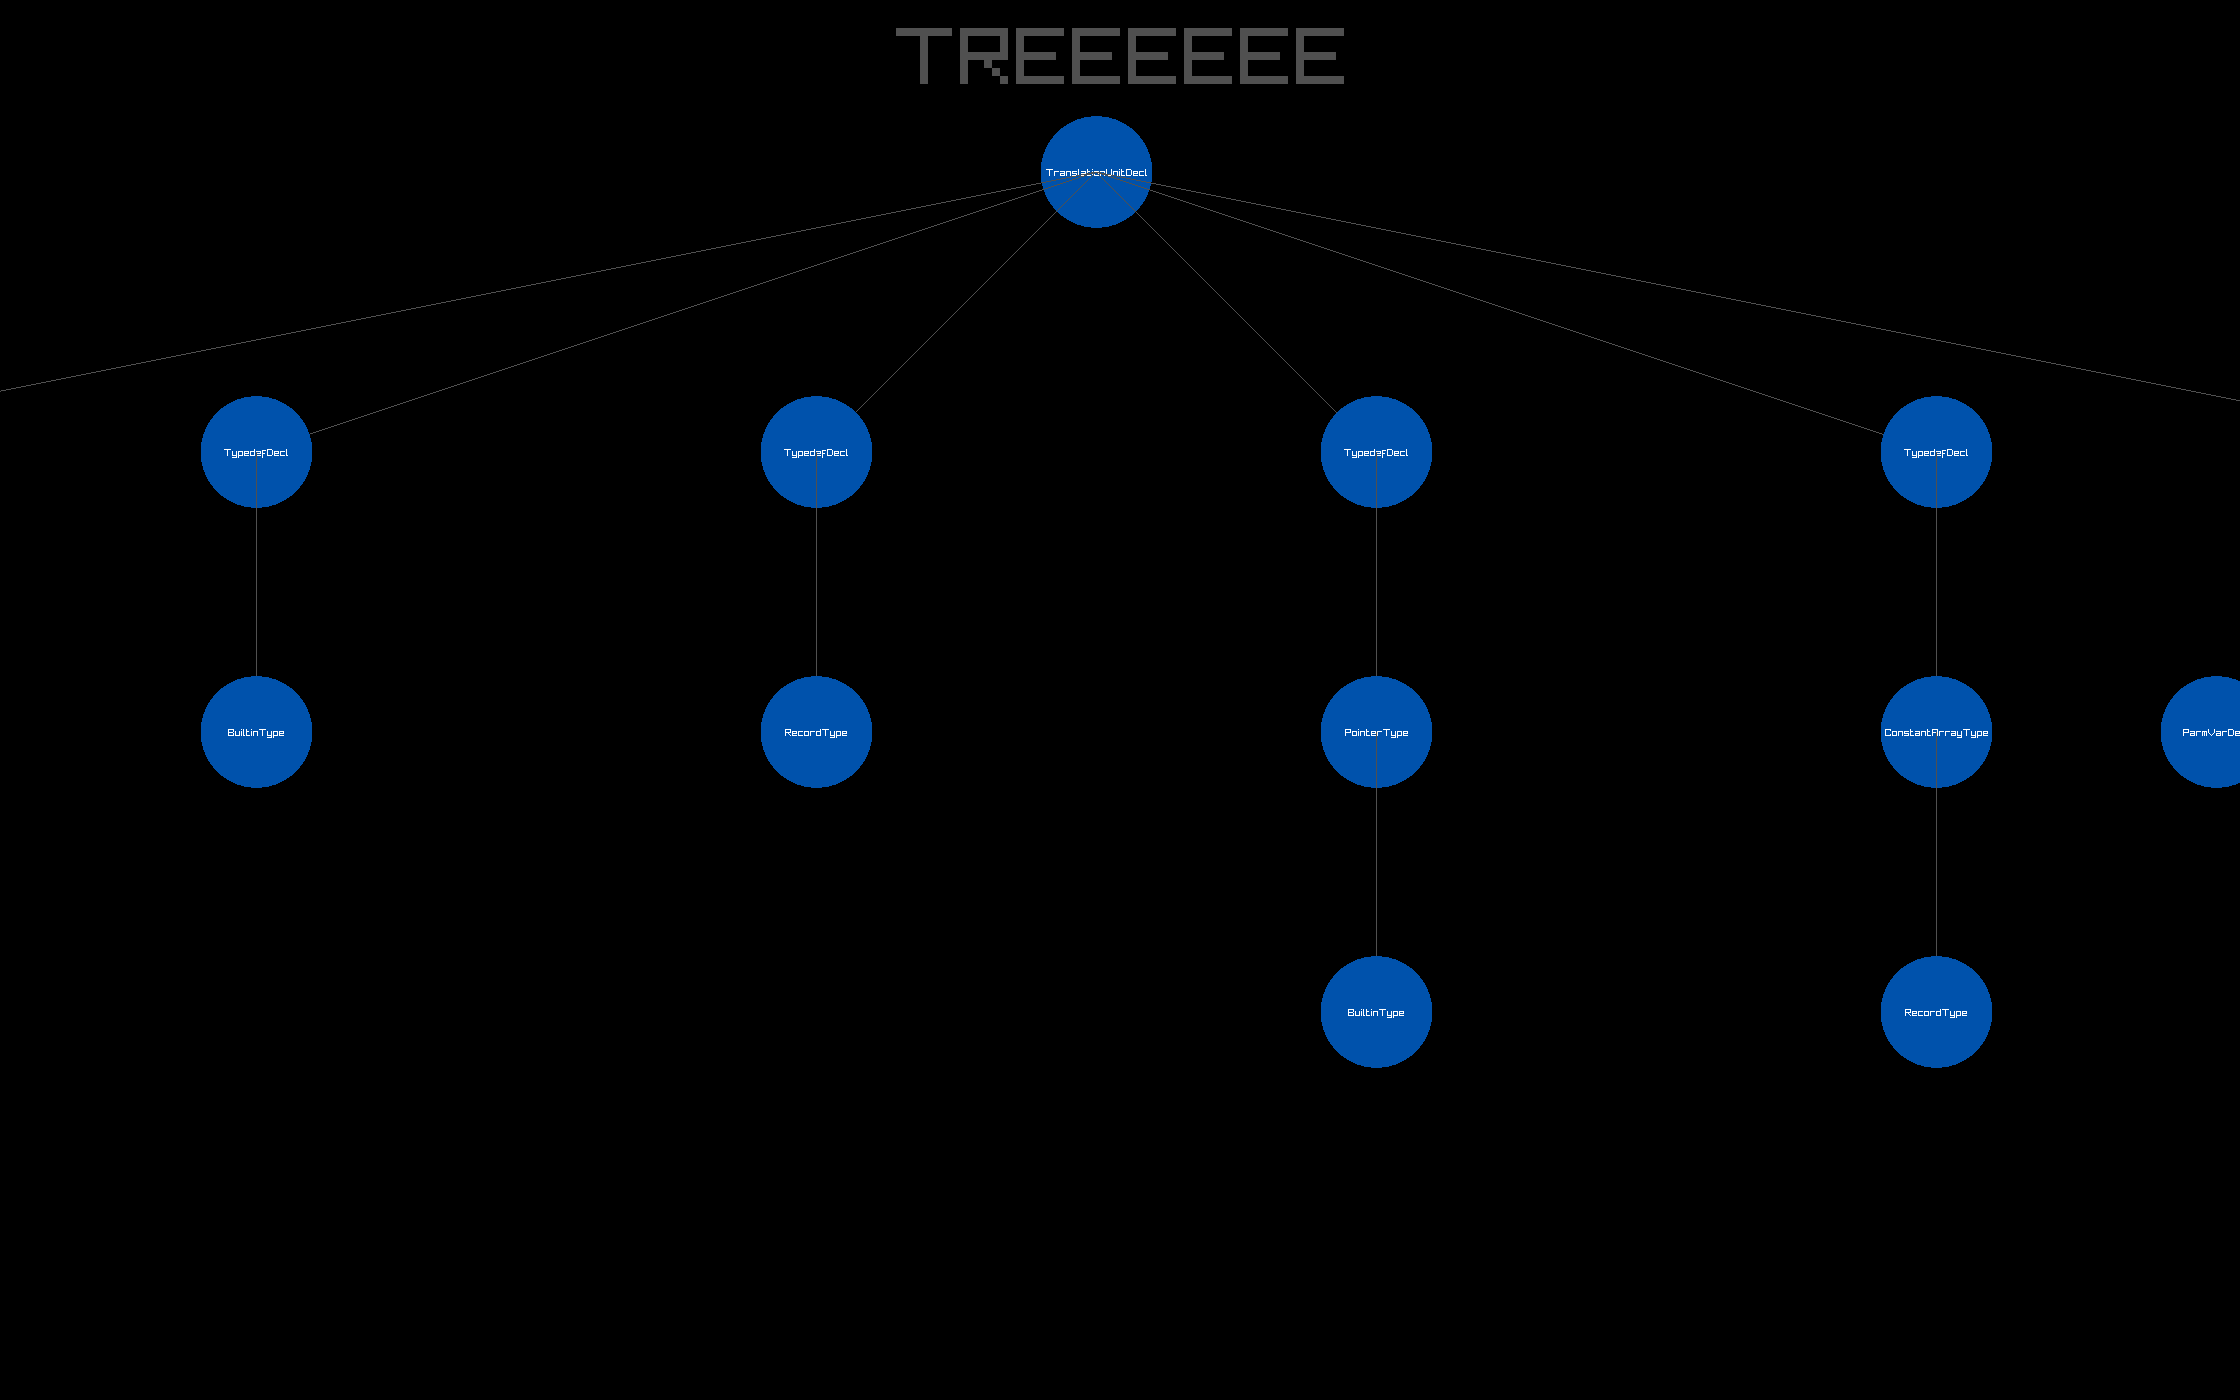
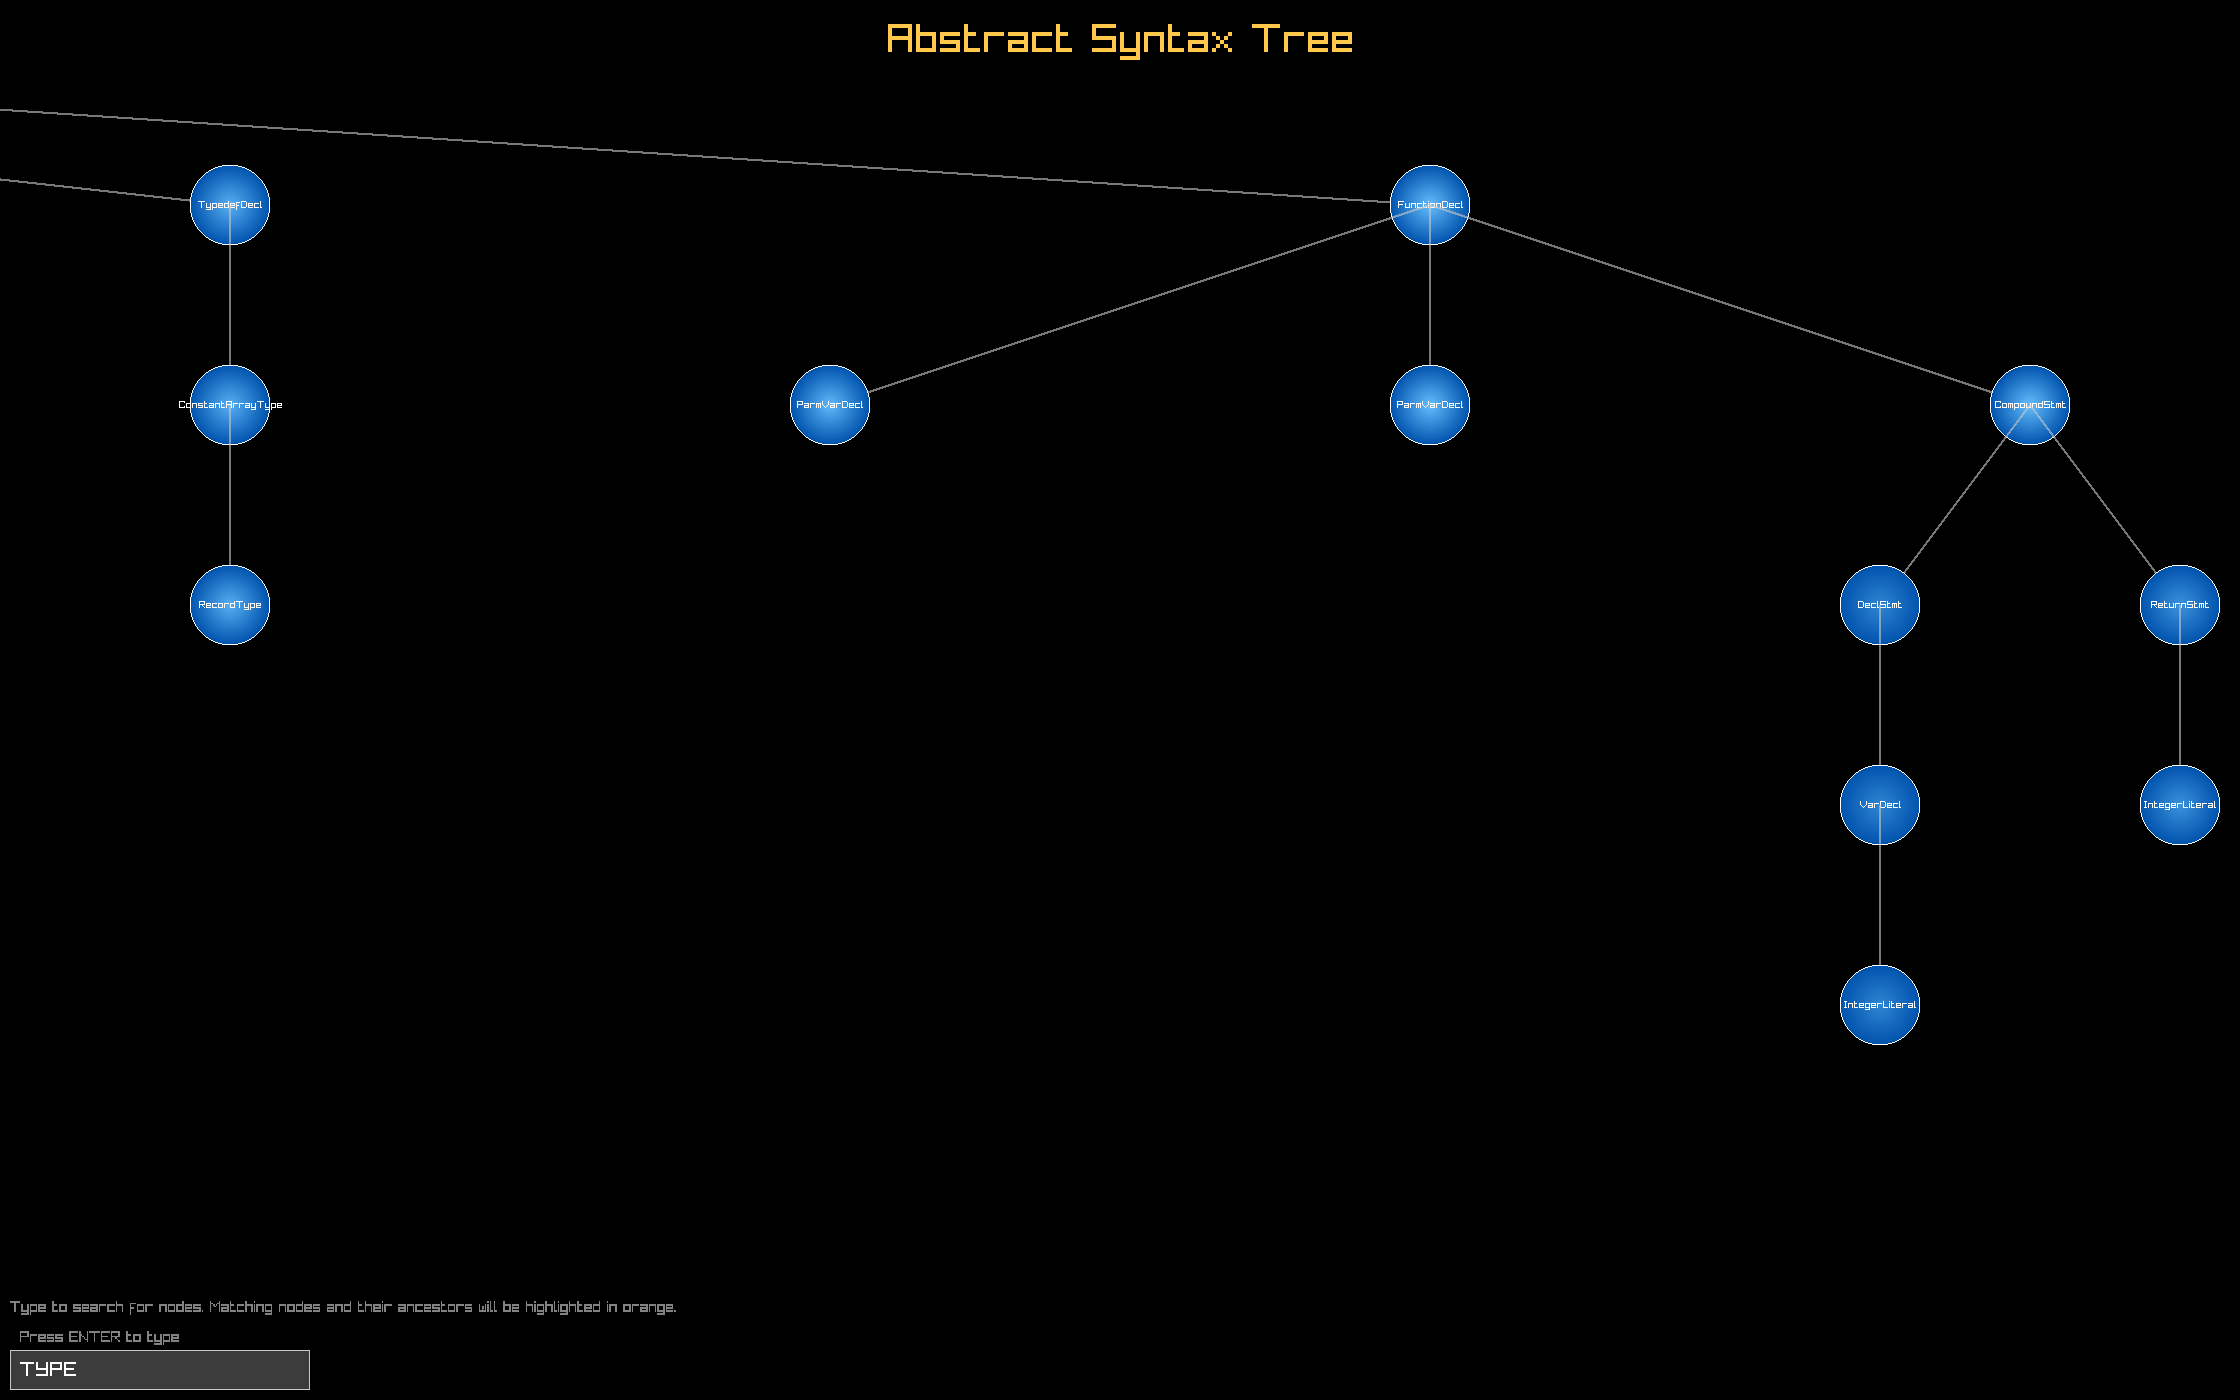
beautify

diff --git a/plot.cpp b/plot.cpp
@@ -3,21 +3,23 @@
 #include <nlohmann/json.hpp>
 #include <raylib.h>
 #include <vector>
+#include <cmath>
+#include <algorithm>
 
-// ASTNode
+
 struct ASTNode {
     std::string name;
     std::vector<ASTNode*> children;
     Vector2 position;
-
-    ASTNode(std::string nodeName) : name(nodeName), position({0, 0}) {}
+    float animationProgress;
+    bool highlighted;
+    ASTNode(std::string nodeName) : name(nodeName), position({0, 0}), animationProgress(0), highlighted(false) {}
 };
 
-// Function to recursively parse the AST from JSON
+
 ASTNode* ParseAST(const nlohmann::json& node) {
     std::string name = node.value("kind", "Unknown");
     ASTNode* astNode = new ASTNode(name);
-
     if (node.contains("inner")) {
         for (const auto& child : node["inner"]) {
             astNode->children.push_back(ParseAST(child));
@@ -26,23 +28,92 @@ ASTNode* ParseAST(const nlohmann::json& node) {
     return astNode;
 }
 
+Color LerpColor(Color c1, Color c2, float t) {
+    return {
+        static_cast<unsigned char>(c1.r + t * (c2.r - c1.r)),
+        static_cast<unsigned char>(c1.g + t * (c2.g - c1.g)),
+        static_cast<unsigned char>(c1.b + t * (c2.b - c1.b)),
+        static_cast<unsigned char>(c1.a + t * (c2.a - c1.a))
+    };
+}
 
-void DrawAST(ASTNode* node, Vector2 position, float x_offset, float y_offset, float zoom, Vector2 offset,const std::string searchQuery) {
+
+float CustomEaseElasticOut(float t) {
+    if (t == 0 || t == 1) return t;
+    float p = 0.3f;
+    return powf(2, -10 * t) * sinf((t - p / 4) * (2 * PI) / p) + 1;
+}
+
+
+void DrawLineBezierQuad(Vector2 startPos, Vector2 endPos, Vector2 controlPos, float thick, Color color) {
+    float t = 0;
+    Vector2 previous = startPos;
+    for (int i = 1; i <= 20; i++) {
+        t = i / 20.0f;
+        float u = 1 - t;
+        float tt = t * t;
+        float uu = u * u;
+        Vector2 p = {
+            uu * startPos.x + 2 * u * t * controlPos.x + tt * endPos.x,
+            uu * startPos.y + 2 * u * t * controlPos.y + tt * endPos.y
+        };
+        DrawLineEx(previous, p, thick, color);
+        previous = p;
+    }
+}
+
+bool SearchNode(ASTNode* node, const std::string& query) {
+    if (node->name.find(query) != std::string::npos) {
+        node->highlighted = true;
+        return true;
+    }
+    bool childMatched = false;
+    for (auto& child : node->children) {
+        if (SearchNode(child, query)) {
+            childMatched = true;
+        }
+    }
+    node->highlighted = childMatched;
+    return childMatched;
+}
+
+void ResetHighlight(ASTNode* node) {
+    node->highlighted = false;
+    for (auto& child : node->children) {
+        ResetHighlight(child);
+    }
+}
+
+void DrawAST(ASTNode* node, Vector2 position, float x_offset, float y_offset, float zoom, Vector2 offset, float time) {
     Vector2 adjustedPosition = { (position.x + offset.x) * zoom, (position.y + offset.y) * zoom };
-
-    Color nodeColor = (node->name.find(searchQuery) != std::string::npos && !searchQuery.empty()) ? RED : DARKBLUE;
-
-    DrawCircleV(adjustedPosition, 80 * zoom, nodeColor);
-    DrawText(node->name.c_str(), adjustedPosition.x - MeasureText(node->name.c_str(), 10 * zoom) / 2, adjustedPosition.y - 5 * zoom, 10 * zoom, WHITE);
-
+    
+    
+    node->animationProgress = fmin(node->animationProgress + 0.05f, 1.0f);
+    float scale = CustomEaseElasticOut(node->animationProgress);
+    
+    
+    Color baseColor = node->highlighted ? ORANGE : SKYBLUE;
+    Color gradientColor = LerpColor(baseColor, DARKBLUE, (sinf(time * 2 + adjustedPosition.x * 0.01f) + 1) * 0.5f);
+    
+    
+    DrawCircleGradient(adjustedPosition.x, adjustedPosition.y, 40 * zoom * scale, gradientColor, DARKBLUE);
+    DrawCircleLines(adjustedPosition.x, adjustedPosition.y, 40 * zoom * scale, WHITE);
+    
+    
+    int fontSize = 10 * zoom * scale;
+    DrawText(node->name.c_str(), adjustedPosition.x - MeasureText(node->name.c_str(), fontSize) / 2, adjustedPosition.y - fontSize / 2, fontSize, WHITE);
+    
     float x_pos = position.x - (x_offset * (node->children.size() - 1)) / 2;
     for (auto& child : node->children) {
         Vector2 childPos = {x_pos, position.y + y_offset};
         Vector2 adjustedChildPos = {(childPos.x + offset.x) * zoom, (childPos.y + offset.y) * zoom};
-
-        DrawLineV(adjustedPosition, adjustedChildPos, DARKGRAY);
-
-        DrawAST(child, childPos, x_offset / 2, y_offset, zoom, offset,searchQuery);
+        
+        
+        Vector2 control = {(adjustedPosition.x + adjustedChildPos.x) / 2, (adjustedPosition.y + adjustedChildPos.y) / 2};
+        Color lineColor = (node->highlighted && child->highlighted) ? ORANGE : Fade(LIGHTGRAY, 0.6f);
+        DrawLineBezierQuad(adjustedPosition, adjustedChildPos, control, 2 * zoom, lineColor);
+        
+        DrawAST(child, childPos, x_offset / 2, y_offset, zoom, offset, time);
         x_pos += x_offset;
     }
 }
@@ -59,40 +130,30 @@ Vector2 Vector2Scale(Vector2 v, float scale) {
     return (Vector2){v.x * scale, v.y * scale};
 }
 
-
 int main() {
-    InitWindow(800, 600, "ASTViz");
+    InitWindow(1200, 900, "Beautiful ASTViz with Search");
     SetTargetFPS(60);
-
+    
     std::ifstream astFile("ast.json");
     nlohmann::json astJson;
     astFile >> astJson;
-
     ASTNode* root = ParseAST(astJson);
-
+    
     float zoom = 1.0f;
     Vector2 offset = {0, 0};
     Vector2 dragStart = {0, 0};
-    bool dragging =0;
-
-    bool typing = 0;
+    bool dragging = false;
+    bool typing = false;
     std::string searchQuery = "";
-
-
+    
     while (!WindowShouldClose()) {
+        float time = GetTime();
         float zoomSpeed = 0.1f;
         zoom += GetMouseWheelMove() * zoomSpeed;
-        const char* bigText = "TREEEEEE";
-        int fontSize = 80;
-        int textWidth = MeasureText(bigText, fontSize);
-        int xPosition = (GetScreenWidth() - textWidth) / 2; 
-        int yPosition = 20;
-
-        DrawText(bigText, xPosition, yPosition, fontSize, DARKGRAY);
-
+        
         if (zoom < 0.2f) zoom = 0.2f;
         if (zoom > 3.0f) zoom = 3.0f;
-
+        
         if (IsMouseButtonDown(MOUSE_BUTTON_LEFT)) {
             if (!dragging) {
                 dragging = true;
@@ -100,17 +161,21 @@ int main() {
             } else {
                 Vector2 currentMousePos = GetMousePosition();
                 Vector2 dragDelta = Vector2Subtract(currentMousePos, dragStart);
-
                 offset = Vector2Add(offset, Vector2Scale(dragDelta, 1.0f / zoom));
                 dragStart = currentMousePos;
             }
         } else {
             dragging = false;
         }
+        
         if (IsKeyPressed(KEY_ENTER)) {
             typing = !typing;
+            if (!typing && !searchQuery.empty()) {
+                ResetHighlight(root);
+                SearchNode(root, searchQuery);
+            }
         }
-
+        
         if (typing) {
             int key = GetKeyPressed();
             if (key >= 32 && key <= 125) {
@@ -120,16 +185,28 @@ int main() {
                 searchQuery.pop_back();
             }
         }
-
+        
         BeginDrawing();
-        ClearBackground(BLACK);
-
-        DrawAST(root, {400, 500}, 800, 400,zoom,offset,searchQuery);
-
+            ClearBackground(BLACK);
+            DrawAST(root, {600, 100}, 1200, 200, zoom, offset, time);
+            
+            
+            const char* title = "Abstract Syntax Tree";
+            int titleFontSize = 40;
+            Color titleColor = ColorFromHSV(fmodf(time * 60, 360), 0.7f, 1.0f);
+            DrawText(title, (GetScreenWidth() - MeasureText(title, titleFontSize)) / 2, 20, titleFontSize, titleColor);
+            
+            
+            DrawRectangle(10, GetScreenHeight() - 50, 300, 40, Fade(LIGHTGRAY, 0.3f));
+            DrawRectangleLines(10, GetScreenHeight() - 50, 300, 40, LIGHTGRAY);
+            DrawText(searchQuery.c_str(), 20, GetScreenHeight() - 40, 20, WHITE);
+            DrawText(typing ? "Press ENTER to search" : "Press ENTER to type", 20, GetScreenHeight() - 70, 15, GRAY);
+            
+            
+            DrawText("Type to search for nodes. Matching nodes and their ancestors will be highlighted in orange.", 10, GetScreenHeight() - 100, 15, GRAY);
         EndDrawing();
     }
-
+    
     CloseWindow();
     return 0;
 }
-

diff --git a/README.md b/README.md
@@ -3,3 +3,17 @@
 Visualize and grep through the AST nodes for your codebases.
 
 ![holy](./assets/ast.png)
+
+
+## Build Instructions
+
+```sh
+# Where x.c is a random C source file.
+clang -Xclang -ast-dump=json -fsyntax-only x.c > ast.json
+```
+
+> This projects requires you to download the [raylib](https://www.raylib.com/) library.
+
+```sh
+clang -o outfile plot.cpp -l{YOUR RAYLIB INSTALL PATH}
+```
